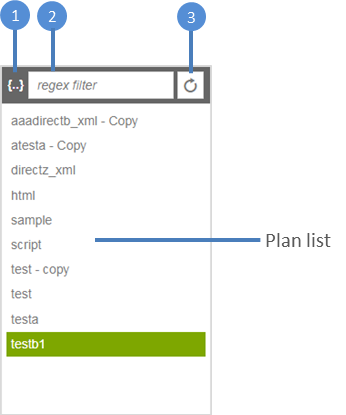
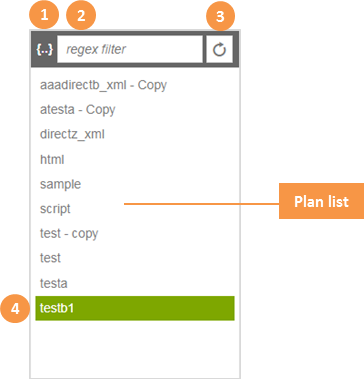
Still working on ui docs

Changed region(s): [[0.0, 0.0, 1.0, 1.0]]

diff --git a/docs/ui/howtouse.md b/docs/ui/howtouse.md
@@ -1,16 +1,8 @@
-# How To Use #
+# How To Use
 
-## Master Page Layout ##
+## Plan Execution
 
-Every page has a header that contains a title and a navigation menu. The space below the header varies depending on the page you select. 
-
-<p>
-<img alt="Page Layout" src="../../img/ui_page_layout.png" />
-</p>
-
-## Plan Execution Module ##
-
-### Search Plan ###
+### Search And Select A Plan
 
 <p>
 <img alt="Search Plan" src="../../img/ui_plan_execution_search_plan.png" />
@@ -20,27 +12,58 @@ To narrow down the number of plans listed in the plan list:
 
 1. Click to choose between regex "{..}" or in-string "*" filter.
 2. Enter the filter expression.  
-3. Filtering is done automatically for you as you type. You click on this button only if you wish to force a refresh. 
+3. Filtering is done automatically for you as you type the filter expression. You click on this button only if you wish to force a reload. 
+4. Click on the desired plan name to select.
 
-### Execute Plan ###
+### Execute A Plan
 
 <p>
-<img alt="Search Plan" src="../../img/ui_plan_execution_execute_plan.png" />
+<img alt="Execute Plan" src="../../img/ui_plan_execution_execute_plan.png" />
 </p>
 
-1. Select a plan from the plan list.
+1. Follow the steps in ["Search and Select A Plan" section](#search-and-select-a-plan) to select a plan.
 2. Click the "Execute" tab if it is not the current tab.
-3. (optional) Enter the request number.
+3. Enter the request number (optional)
 4. Enter dynamic parameter values (applicable if the plan has dynamic parameters defined). 
-5. Check the "Pass blank value" checkbox if you wish to send blank values. The default behavior is to exclude all blank values.
-6. (optional) Click "View Diagram" to get a visual representation of the plan.
+5. Check the "Pass blank value" checkbox if you wish to send blank values.
+6. Click "Show Diagram" to get a visual representation of the plan (optional).
 7. Click the "Execute" button to execute the plan. If you see a "Reset" button instead, click it to restore the "Execute" button.
 
     The "Reset" button helps to make sure you do not accidentally execute the same plan more than once.
     
-### View Plan Status ###
+8. You should see a notification message like the one below at the bottom left corner of the window. Take note of the "Instance Id" as you will need it to check the status of the execution later on.
 
-### View Plan Status Diagram ###
+    <p>
+    <img alt="Plan execution message" src="../../img/ui_plan_execution_execute_plan_msg.png" />
+    </p>
 
-### Cancel Plan Execution
+Note: Action names with "G" suffix are action groups.
+
+### View Plan Status
+
+<p>
+<img alt="Plan Status" src="../../img/ui_plan_execution_plan_status.png" />
+</p>
+
+1. Follow the steps in ["Search and Select A Plan" section](#search-and-select-a-plan) to select a plan.
+2. Click the "Status" tab if it is not the current tab. 
+3. Use the settings here to alter the results listed in the plan history. By default, only the 5 most recent instances will be listed.  
+
+     - "Show n records": controls the maximum number of recent plan instances to display.  
+     - "Refresh every 60 secs": controls whether to automatically refresh the plan history.  
+     - "Refresh": causes a reload of plan history. 
+    
+4. Select the desired plan instance. 
+5. There are a few things you can do here.
+ 
+    - "Refresh": updates the content of the result plan with the latest status of the plan instance.
+    - "Cancel": cancels the executing plan.  
+    - "Show Diagram": gives you a diagram view of the result plan.  
+    - "A-", "A", "A+" buttons lets you alter the font size.  
+    
+
+### Cancel Plan
+
+1. Follow the instructions in ["View Plan Status" section](#view-plan-status).
+2. Click the "Cancel" button located right above the Result Plan.
 
